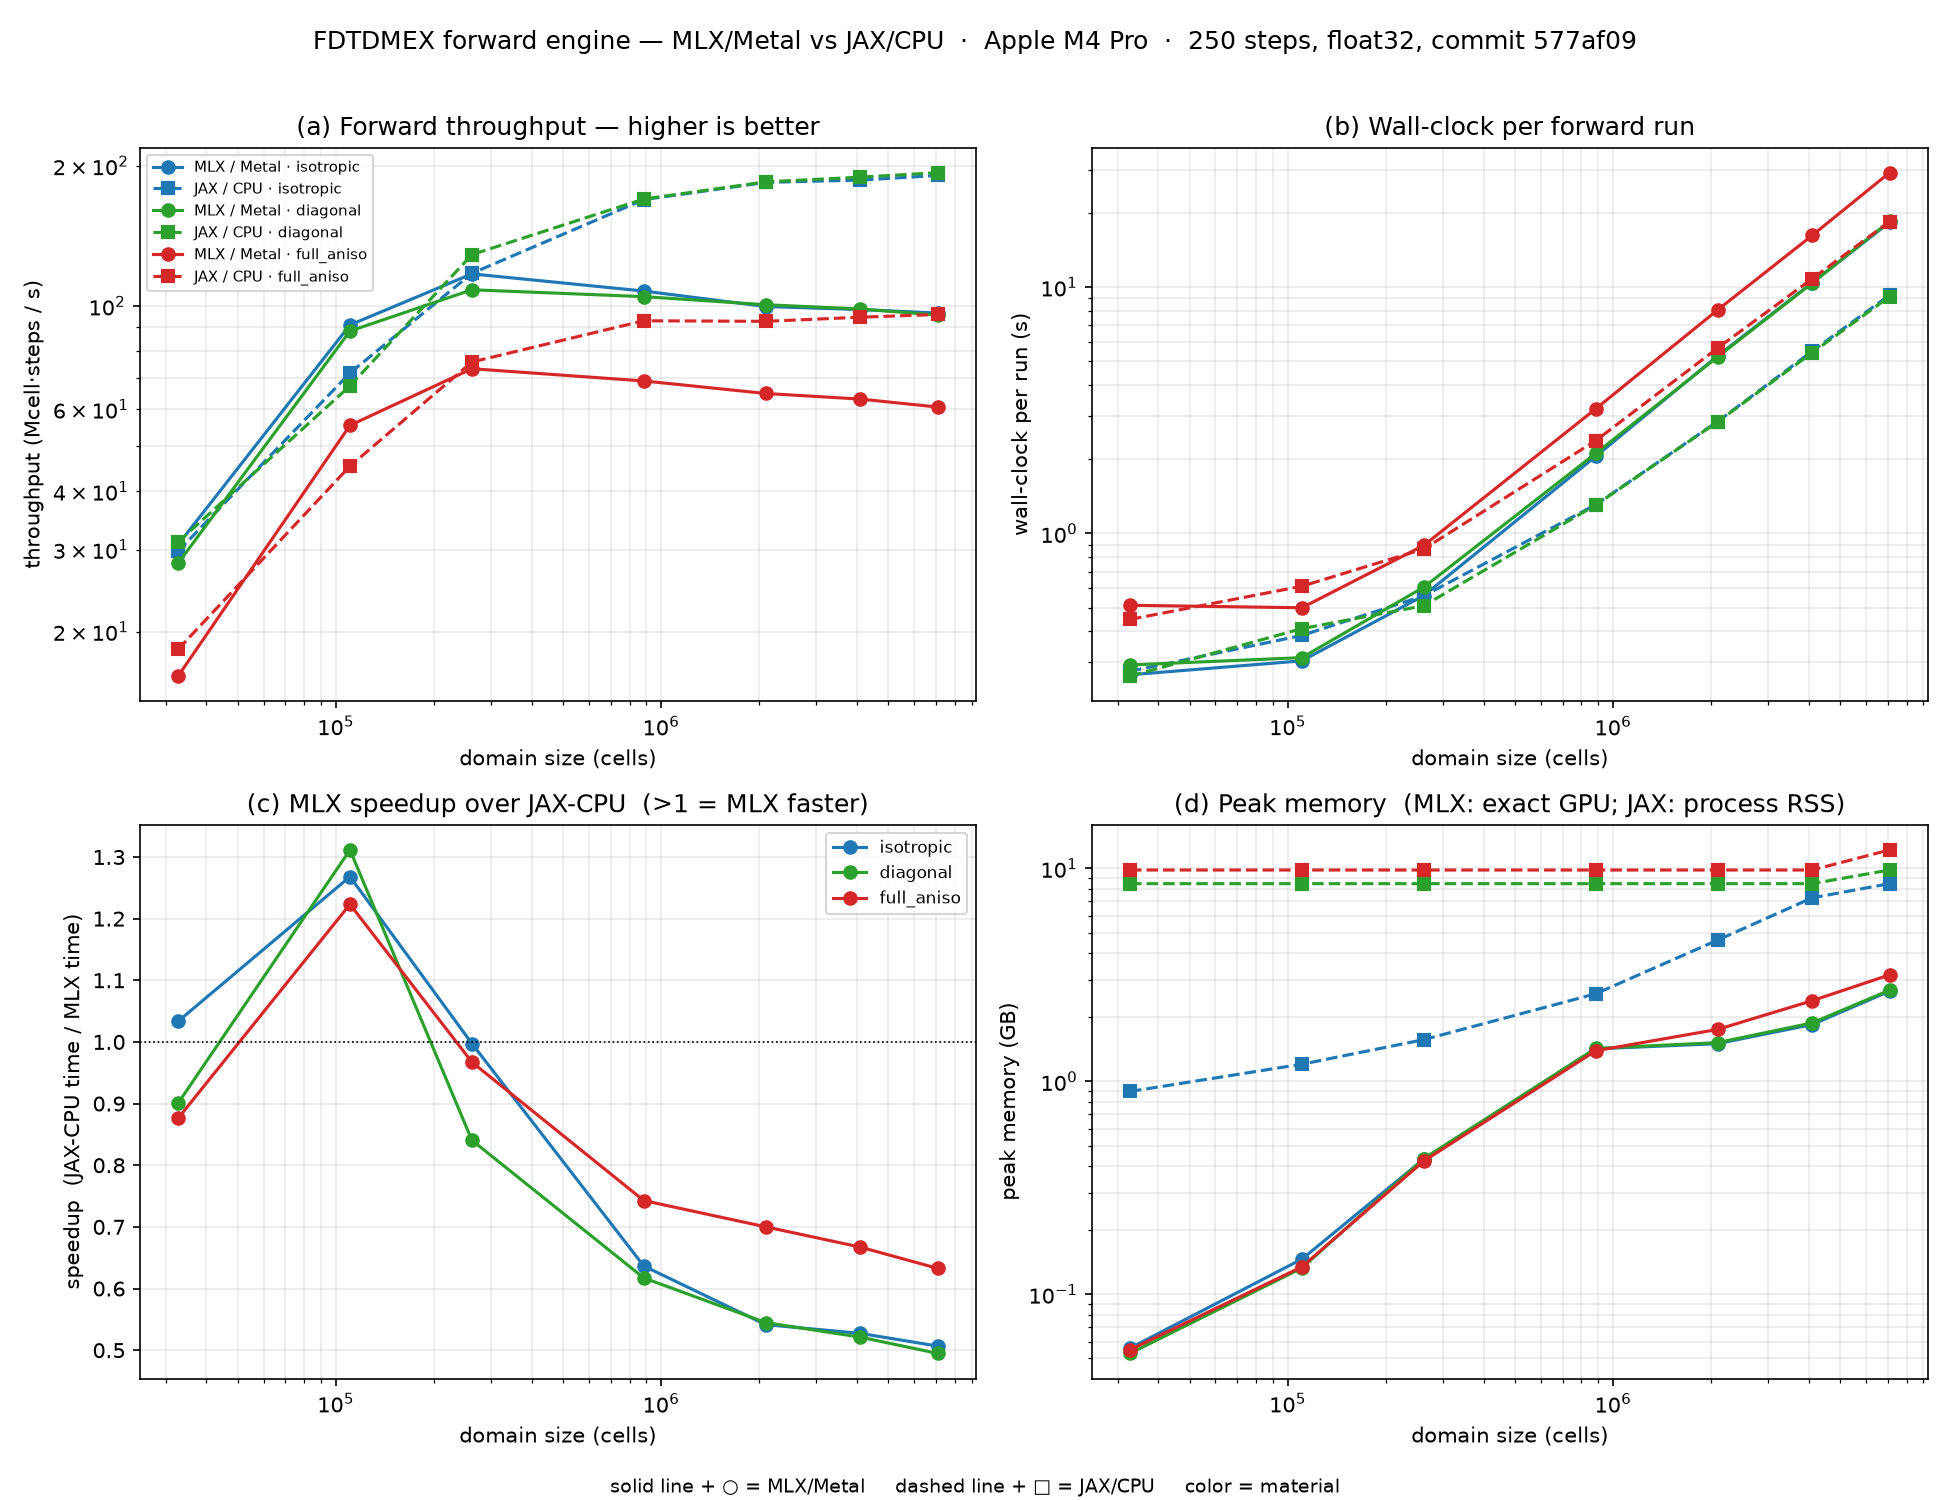
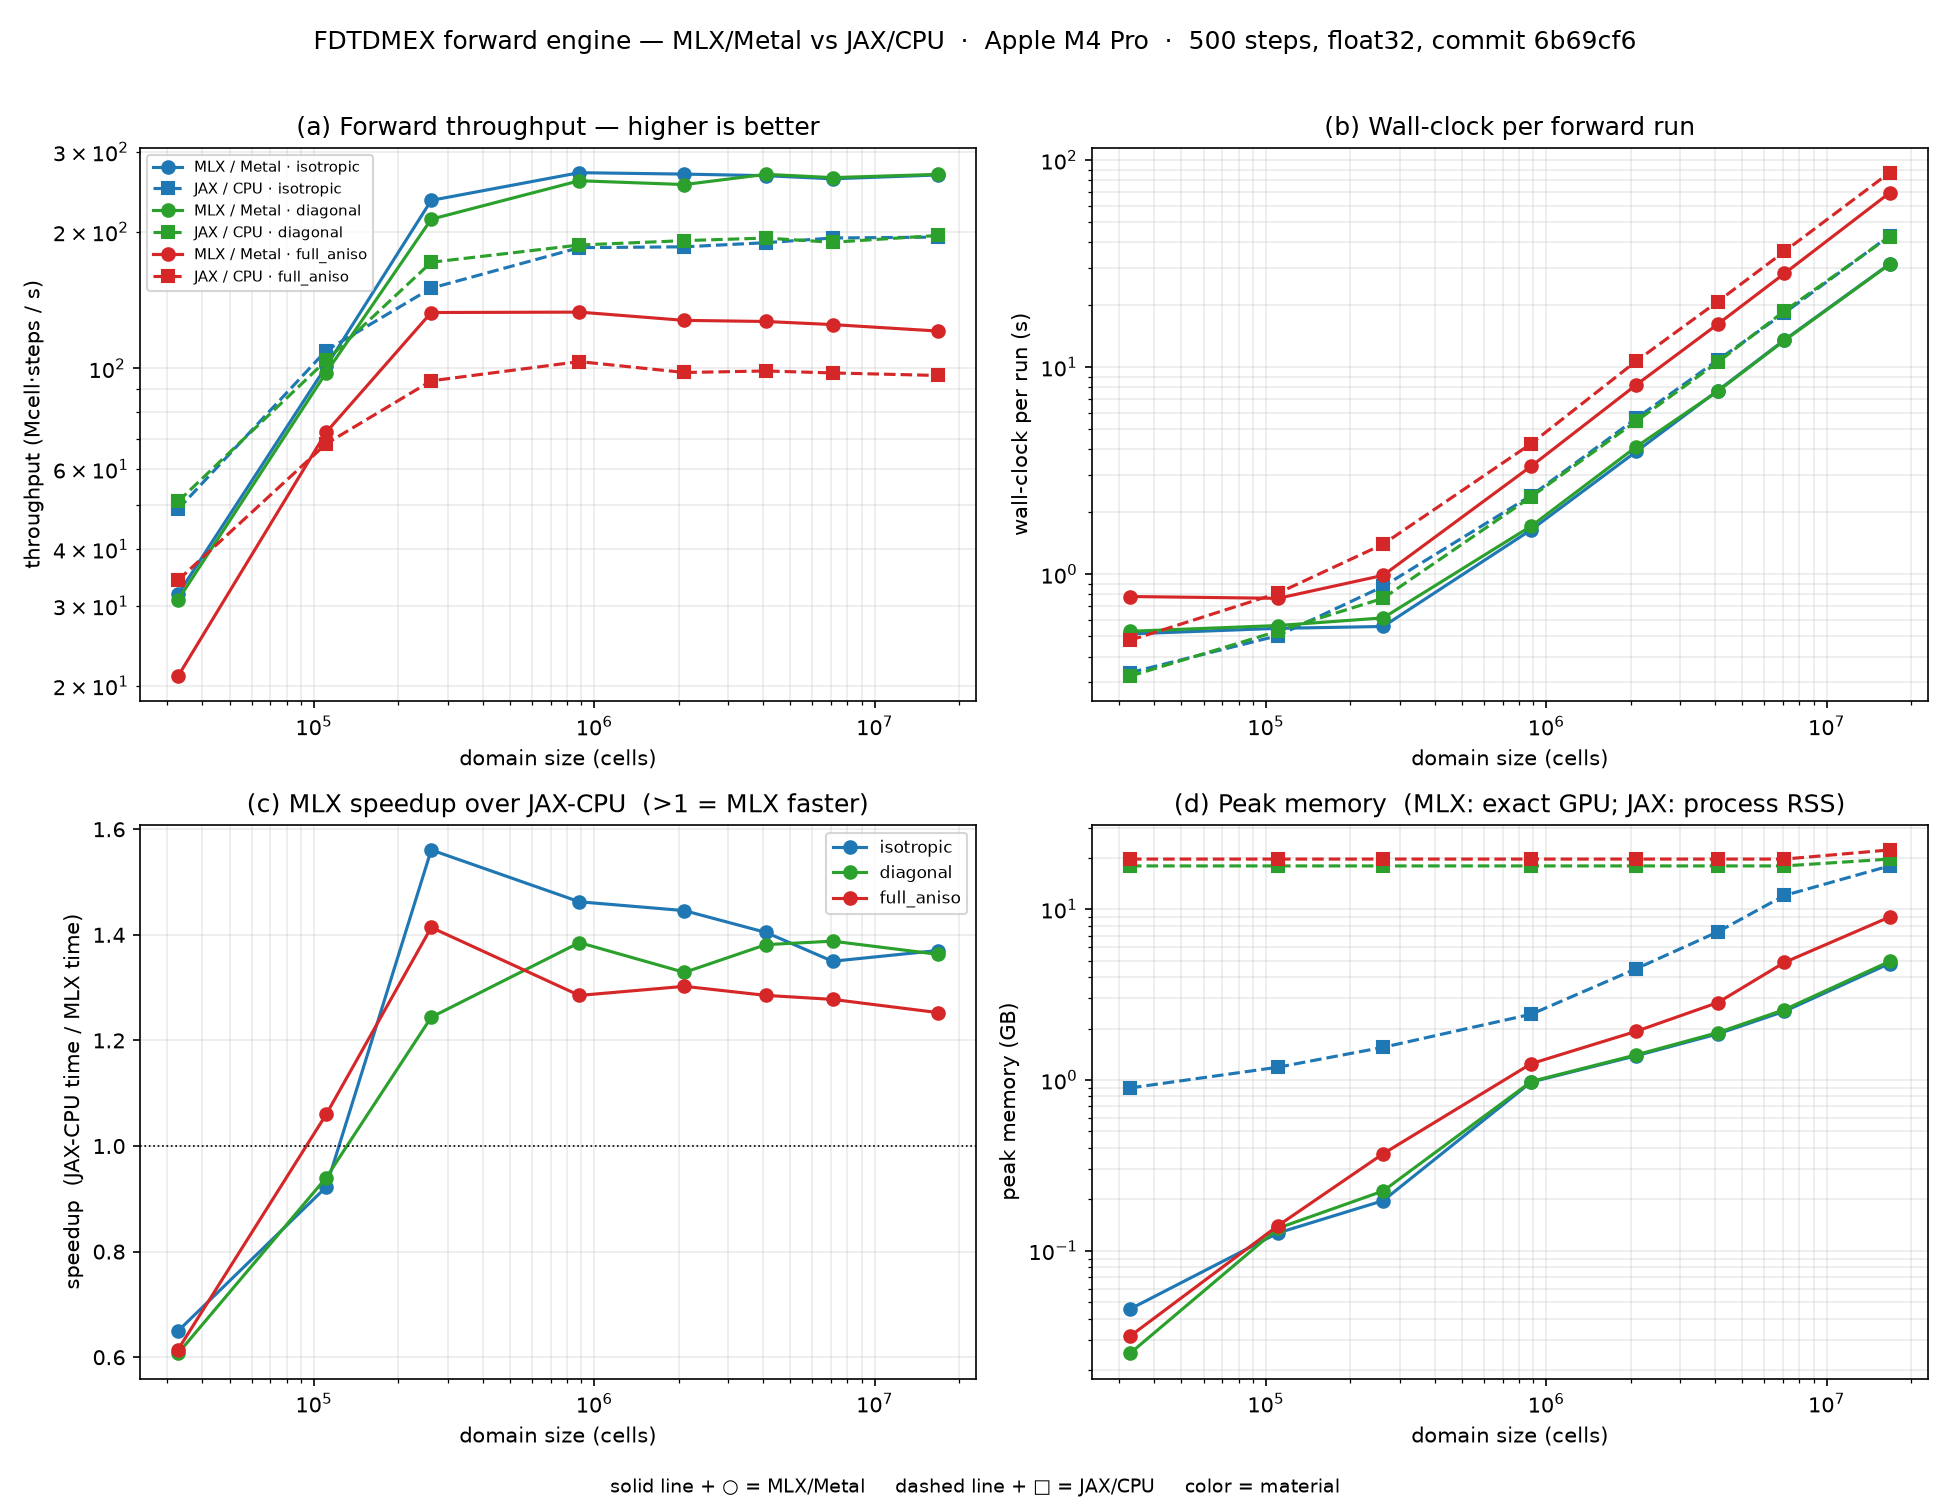
bench: full MLX-vs-JAX scaling sweep (500 steps) + refreshed scaling plot
Run benchmarks/results/scaling_s500.jsonl (M4 Pro, float32, 500 steps, both backends,
3 materials, N=32..256; warmup excluded so wall-clock is steady-state). Post-Phase-1,
MLX/Metal leads JAX-CPU for all N>=64 on throughput AND wall-clock:
  isotropic  N=256: 266.8 vs 194.7 Mcs/s (1.37x); 31.4s vs 43.1s
  diagonal   N=256: 267.6 vs 196.3 Mcs/s (1.36x)
  full_aniso N=256: 120.9 vs  96.5 Mcs/s (1.25x)
Crossover N~=64; no plateau (MLX flat-to-rising across N). Below N~48 JAX wins
(MLX launch overhead on tiny domains).

- Refresh docs/images/forward_scaling.png (4-panel: throughput, wall-clock, speedup,
  peak memory) from the new run; add it + a results table to metal-bottleneck-analysis.md.
- Remove outdated pre-optimization plots (docs/images/forward_scaling_full.png and stale
  outputs/forward_scaling*.png) and the dead image ref in perf-baseline.md; clarify that
  perf-baseline's top figure is now the current (post-Phase-1) result.

diff --git a/docs/metal-bottleneck-analysis.md b/docs/metal-bottleneck-analysis.md
@@ -1,5 +1,23 @@
 # Metal GPU bottleneck analysis — measured, not inferred
 
+## Current scaling result (post-Phase-1)
+
+![Forward scaling — MLX/Metal vs JAX-CPU](images/forward_scaling.png)
+
+M4 Pro, float32, 500 steps (`benchmarks/results/scaling_s500.jsonl`, commit `6b69cf6`; warmup
+excluded so wall-clock is steady-state). After Phase 1 (compile + pad-free slice-diff + slab-CPML),
+**MLX/Metal leads JAX-CPU for every N ≥ 64 across all three materials**, with no plateau:
+
+| material | MLX Mcs/s (N=256) | JAX Mcs/s | speedup | crossover |
+|---|--:|--:|--:|--:|
+| isotropic | 266.8 | 194.7 | **1.37×** | N≈64 |
+| diagonal | 267.6 | 196.3 | **1.36×** | N≈64 |
+| full_aniso | 120.9 | 96.5 | **1.25×** | N≈48–64 |
+
+Below N≈48 JAX-CPU still wins (MLX kernel-launch overhead dominates the tiny domains). Panel (d)
+memory: MLX peak is exact; the JAX line is in-process RSS (a monotonic high-water mark — use
+`profile_memory.py` for a clean per-cell figure).
+
 > **Purpose.** The ACTION_PLAN proposed four eager-path fixes on the strength of a *wall-clock*
 > decomposition (perf-baseline §1a) that was never verified at the GPU. This document replaces that
 > inference with measurement: a real achieved-bandwidth roofline, a round-trip accounting of the

diff --git a/docs/perf-baseline.md b/docs/perf-baseline.md
@@ -9,6 +9,11 @@ float32, commit `577af09`.
 
 ![Forward scaling — MLX/Metal vs JAX-CPU](images/forward_scaling.png)
 
+> The figure above is the **current** (post-Phase-1) scaling result (MLX now leads JAX-CPU for all
+> N≥64). This document records the *original eager* baseline that motivated the work — the tables and
+> §1a below describe that starting point; see the §1a banner and
+> [metal-bottleneck-analysis.md](metal-bottleneck-analysis.md) for the realized state.
+
 Each cell is a cubic domain (cells = N³) uniformly filled with one material, CPML on all sides, a
 point-dipole source, no detector (pure update loop). Both backends run the **identical placed
 case**, forced with `fdtdx.use_backend(...)`. The same cases are validated element-wise between the
@@ -164,9 +169,6 @@ lift the plateau, not just the small-N tail. This baseline is the control to mea
 ### Largest domain that fit (the unified-memory claim)
 MLX-only large-domain sweep (`benchmarks/results/mlx_large.jsonl`, 120 steps), pushing past where
 JAX-CPU is practical (the MLX plateau extends across the whole range; JAX stops at N=192):
-
-![MLX scaling to 56M cells](images/forward_scaling_full.png)
-
 
 | material | N | cells | MLX peak | throughput |
 |---|--:|--:|--:|--:|